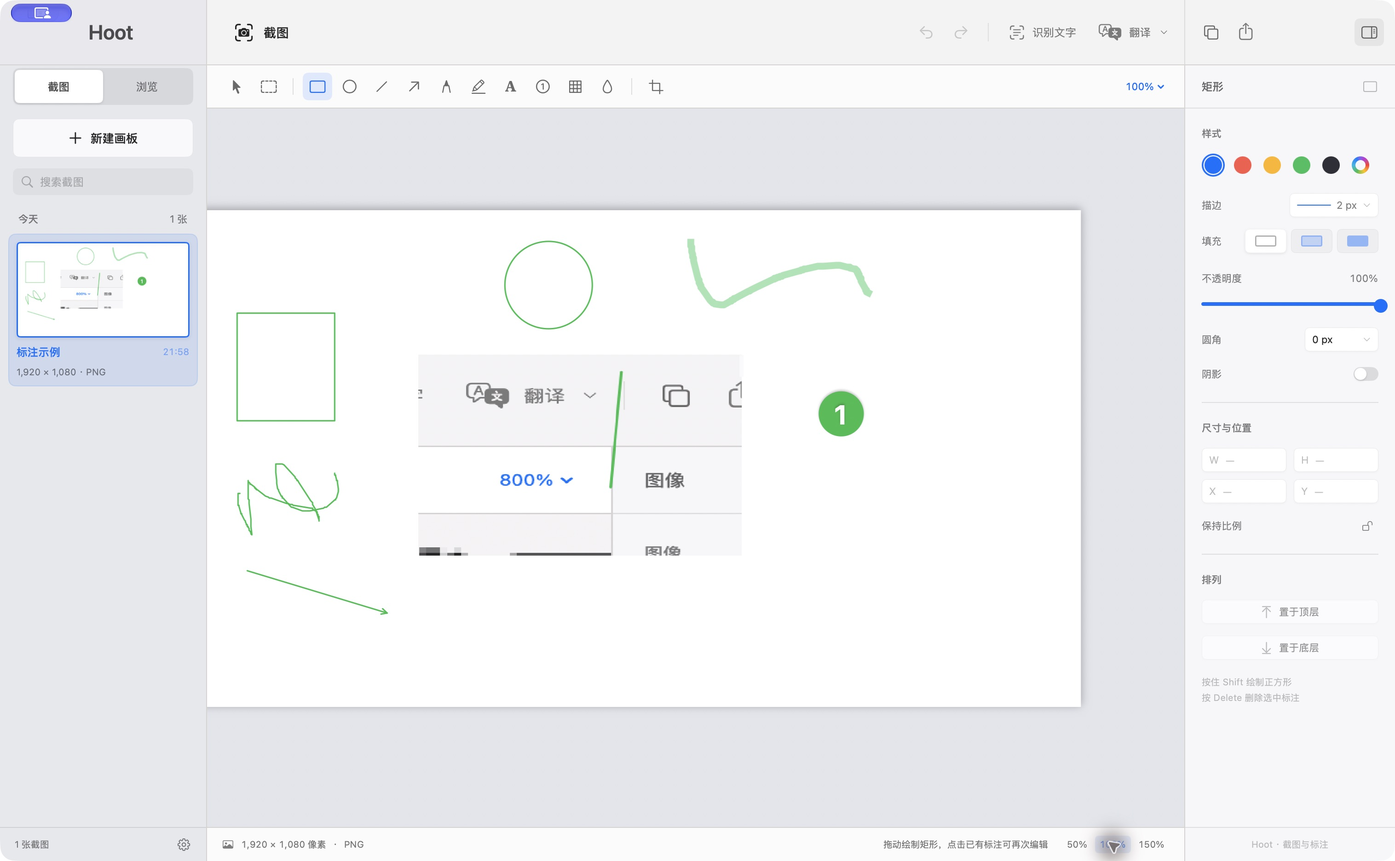
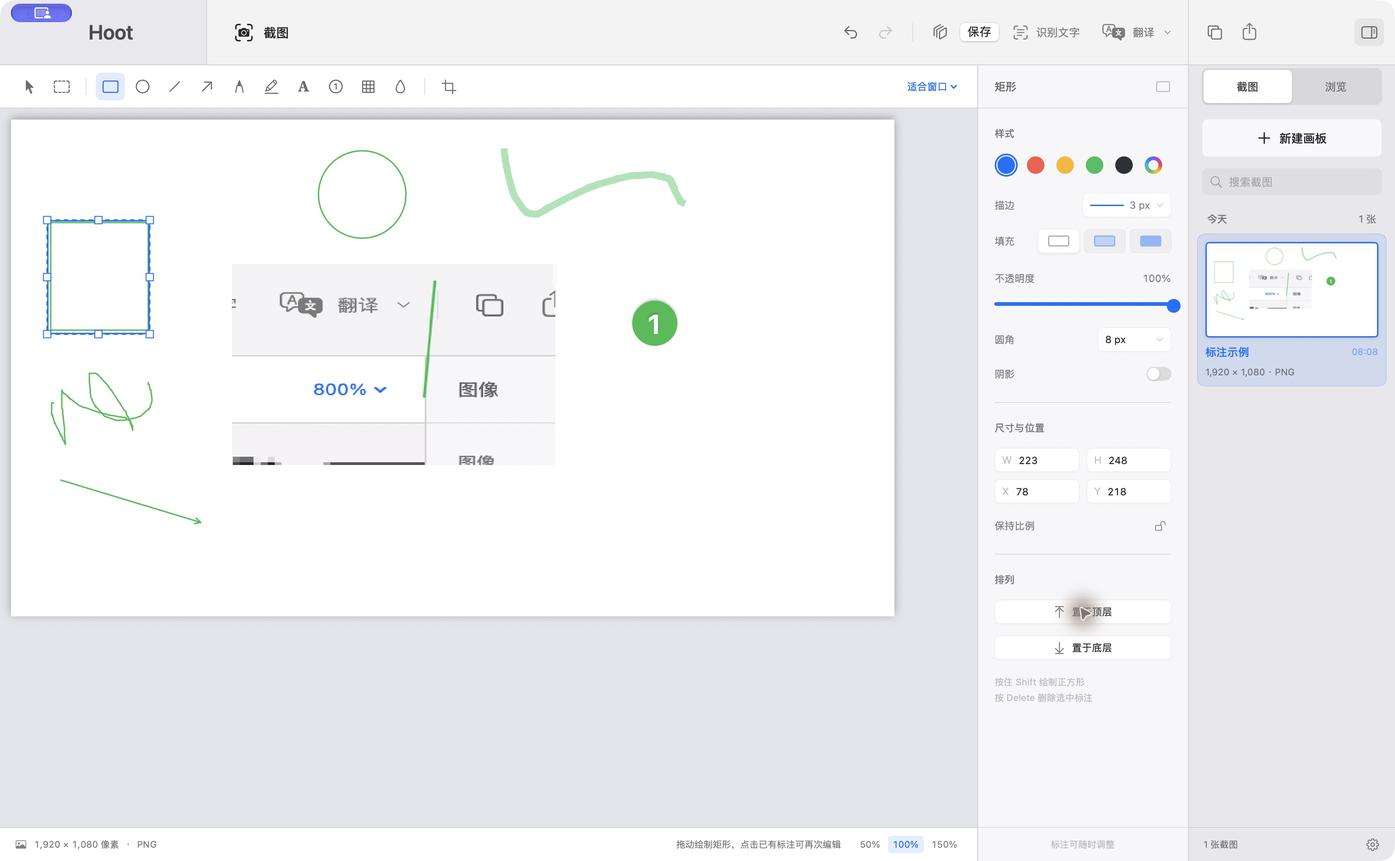
版本号收敛到单一来源 VERSION；清理三份过期验收稿
- 新增 VERSION（第 1 行 X.Y.Z，第 2 行 build），bundle.sh 与 landing/build.mjs
  都从它读取，不再手写版本号。漏改一处会让 UpdateManager 静默认为已是最新。
- landing/index.html 的版本位置改为 {{VERSION}} 占位符；build.mjs 增加校验：
  残留占位符、下载链接必须是 hoot-dl 域名下的当前版本包名，写错直接构建失败。
- 主截图改名为不带版本号的 landing/assets/hoot-editor.jpg。
- 删除 docs/UI-REDESIGN.md、EDITING-V2.md、CAPTURE-REFINEMENT.md：仍是当前
  事实的部分已并入 docs/FEATURES.md（§6.1 布局尺寸、§6.2 自绘标题栏、§6.4
  检查器、§6.5 状态栏、§9.1 侧栏、§10.2 翻页区、§11 设置三分类、§12 偏好键）。
  顺带修正「左侧栏 200pt」等与实现不符的描述（实际 224/228/36）。
- 部署.md 移出版本控制（内部文档，只留本机）。

diff --git a/landing/index.html b/landing/index.html
@@ -15,7 +15,7 @@
   <meta property="og:title" content="Hoot — 截图、看图、编辑，在 Mac 上一气呵成">
   <meta property="og:description" content="受 PicPick 启发，为 macOS 原生打造。免费使用，MIT 开源。">
   <meta property="og:url" content="https://hoot.xiezhaoye.site/">
-  <meta property="og:image" content="https://hoot.xiezhaoye.site/assets/hoot-editor-0.2.1.jpg">
+  <meta property="og:image" content="https://hoot.xiezhaoye.site/assets/hoot-editor.jpg">
   <meta name="twitter:card" content="summary_large_image">
   <link rel="stylesheet" href="style.css">
   <script src="site.js" defer></script>
@@ -33,10 +33,10 @@
     <p class="eyebrow"><span class="status-dot" aria-hidden="true"></span> 为 macOS 原生打造 <span class="dot-divider">·</span> 免费 · MIT 开源</p>
     <h1>截下来。<br><span><span class="hero-phrase">把想说的，</span><span class="hero-phrase">说明白。</span></span></h1>
     <p class="hero-description">截图、图片浏览与编辑，放在同一个顺手的 App 里。<br class="desktop-break">从圈出一个重点，到分享一张讲得清楚的图，Hoot 都陪你完成。</p>
-    <div class="hero-actions"><a class="button primary" href="https://hoot-dl.xiezhaoye.site/Hoot-0.2.1-macos-arm64.zip"><svg viewBox="0 0 24 24" aria-hidden="true"><path d="M12 3v12m-5-5 5 5 5-5M5 16v4h14v-4"></path></svg>下载 macOS 版</a><a class="button secondary" href="https://github.com/xiezhaoye/Hoot">在 GitHub 查看 <span aria-hidden="true">↗</span></a></div>
-    <p class="compatibility">v0.2.1 预览版 <span>·</span> macOS 15+ <span>·</span> Apple Silicon</p>
+    <div class="hero-actions"><a class="button primary" href="https://hoot-dl.xiezhaoye.site/Hoot-{{VERSION}}-macos-arm64.zip"><svg viewBox="0 0 24 24" aria-hidden="true"><path d="M12 3v12m-5-5 5 5 5-5M5 16v4h14v-4"></path></svg>下载 macOS 版</a><a class="button secondary" href="https://github.com/xiezhaoye/Hoot">在 GitHub 查看 <span aria-hidden="true">↗</span></a></div>
+    <p class="compatibility">v{{VERSION}} 预览版 <span>·</span> macOS 15+ <span>·</span> Apple Silicon</p>
     <figure class="hero-product">
-      <button class="screenshot-button" data-preview="assets/hoot-editor-0.2.1.jpg" data-caption="Hoot 原生编辑界面，画布中为用户提供的标注示例" aria-label="放大查看 Hoot 编辑界面"><img class="product-image" src="assets/hoot-editor-0.2.1.jpg" width="3032" height="1872" alt="Hoot 编辑界面：标注画布与工具栏，右侧颜色、描边、填充、圆角和尺寸检查器及截图历史" fetchpriority="high"></button>
+      <button class="screenshot-button" data-preview="assets/hoot-editor.jpg" data-caption="Hoot 原生编辑界面，画布中为用户提供的标注示例" aria-label="放大查看 Hoot 编辑界面"><img class="product-image" src="assets/hoot-editor.jpg" width="3032" height="1872" alt="Hoot 编辑界面：标注画布与工具栏，右侧颜色、描边、填充、圆角和尺寸检查器及截图历史" fetchpriority="high"></button>
       <figcaption>你熟悉的 Mac 界面。截图之后，直接开始编辑。<span>点击查看大图 <span aria-hidden="true">↗</span></span></figcaption>
     </figure>
     <div class="capability-strip"><span>Swift 原生界面</span><span>本地截图历史</span><span>Vision 本地识字</span><span>快捷键随手调用</span></div>
@@ -65,7 +65,7 @@
   </section>
   <section class="story-section" id="story" data-screen-label="开发初衷"><div class="wrap story-layout"><img src="assets/logo.png" width="112" height="112" alt="Hoot 猫头鹰 Logo" loading="lazy"><div><p class="eyebrow">为什么做 Hoot</p><blockquote>“想把 Windows 上用 PicPick<br class="desktop-break">截图和编辑的顺手体验，带到 Mac。”</blockquote><p>这是 Hoot 的起点。用 Swift 和 macOS 原生框架，从截图、看图和编辑这些每天都会做的小事开始，一点点打磨自己的答案。</p><p class="author"><a href="https://github.com/xiezhaoye">xiezhaoye <span aria-hidden="true">↗</span></a><span>Hoot 作者</span></p><p class="attribution">灵感来自 <a href="https://picpick.app/" rel="noopener">PicPick</a>。Hoot 是独立开发的应用，非 PicPick 官方 macOS 版本。</p></div></div></section>
   <section class="section wrap release-overview" id="updates" data-screen-label="当前版本与常用快捷键">
-    <div><p class="eyebrow">当前公开预览版 · 0.2.1</p><h2>版本与使用说明。</h2><ul class="release-points"><li>窗口与内部模块选区，支持辅助功能边界与本机矩形识别。</li><li>截图可设置透明圆角，准备过程支持多显示器并行抓取。</li><li>粘贴区块、图形和文字持续可编辑，统一固定并保存。</li><li>保存本地编辑草稿，重启后恢复画板和可编辑对象。</li></ul><a class="release-detail" href="https://github.com/xiezhaoye/Hoot/releases/tag/v0.2.1">查看 0.2.1 更新记录 ↗</a></div>
+    <div><p class="eyebrow">当前公开预览版 · {{VERSION}}</p><h2>版本与使用说明。</h2><ul class="release-points"><li>窗口与内部模块选区，支持辅助功能边界与本机矩形识别。</li><li>截图可设置透明圆角，准备过程支持多显示器并行抓取。</li><li>粘贴区块、图形和文字持续可编辑，统一固定并保存。</li><li>保存本地编辑草稿，重启后恢复画板和可编辑对象。</li></ul><a class="release-detail" href="https://github.com/xiezhaoye/Hoot/releases/tag/v{{VERSION}}">查看 {{VERSION}} 更新记录 ↗</a></div>
     <div class="shortcut-panel"><h3>常用快捷键</h3><dl><div><dt>开始截图</dt><dd><kbd>⌃⌥A</kbd></dd></div><div><dt>钉住剪贴板图片</dt><dd><kbd>⌃⌥P</kbd></dd></div><div><dt>固定全部对象</dt><dd><kbd>⇧⌘F</kbd></dd></div><div><dt>固定全部并保存</dt><dd><kbd>⌘S</kbd></dd></div><div><dt>撤销</dt><dd><kbd>⌘Z</kbd></dd></div><div><dt>重做</dt><dd><kbd>⇧⌘Z</kbd></dd></div></dl><p>以上为默认快捷键，截图快捷键可在设置中修改。保存前的区块和标注可继续调整，固定操作也支持撤销。</p></div>
   </section>
   <section class="section wrap faq-section" data-screen-label="常见问题"><div class="section-heading"><p class="eyebrow">开始之前</p><h2>你可能想知道。</h2></div><div class="faq">
@@ -78,7 +78,7 @@
     <details><summary>图片和识别的文字会上传吗？</summary><p>截图历史保存在本地，OCR 使用本机 Apple Vision。启用你自己配置的大模型翻译时，识别后的文字会发送到该接口；API Key 存在 macOS 钥匙串中。系统本地翻译不需要该接口。</p></details>
     <details><summary>支持长截图和录屏吗？</summary><p>当前版本专注截图、图片浏览与编辑，滚动长截图、录屏和视频剪辑尚未实现。你可以在 GitHub 提出需求或参与开发。</p></details>
   </div></section>
-  <section class="download-section" id="download" data-screen-label="下载 Hoot"><div class="wrap"><img src="assets/logo.png" width="76" height="76" alt="Hoot" loading="lazy"><h2>下一张截图，<br>试试 Hoot。</h2><p>给你的 Mac，添一只会截图的小猫头鹰。</p><div class="hero-actions"><a class="button primary" href="https://hoot-dl.xiezhaoye.site/Hoot-0.2.1-macos-arm64.zip">下载 Hoot 0.2.1 <span aria-hidden="true">↓</span></a><a class="button secondary" href="https://github.com/xiezhaoye/Hoot">GitHub 项目 <span aria-hidden="true">↗</span></a></div><p class="compatibility">macOS 15+ · Apple Silicon · 免费开源</p><a class="release-notes" href="https://github.com/xiezhaoye/Hoot/releases">查看版本与更新记录 <span aria-hidden="true">↗</span></a></div></section>
+  <section class="download-section" id="download" data-screen-label="下载 Hoot"><div class="wrap"><img src="assets/logo.png" width="76" height="76" alt="Hoot" loading="lazy"><h2>下一张截图，<br>试试 Hoot。</h2><p>给你的 Mac，添一只会截图的小猫头鹰。</p><div class="hero-actions"><a class="button primary" href="https://hoot-dl.xiezhaoye.site/Hoot-{{VERSION}}-macos-arm64.zip">下载 Hoot {{VERSION}} <span aria-hidden="true">↓</span></a><a class="button secondary" href="https://github.com/xiezhaoye/Hoot">GitHub 项目 <span aria-hidden="true">↗</span></a></div><p class="compatibility">macOS 15+ · Apple Silicon · 免费开源</p><a class="release-notes" href="https://github.com/xiezhaoye/Hoot/releases">查看版本与更新记录 <span aria-hidden="true">↗</span></a></div></section>
 </main>
 <footer class="wrap footer"><a class="brand" href="#"><img src="assets/logo.png" width="26" height="26" alt=""><span>Hoot</span></a><p>由 <a href="https://www.xiezhaoye.site/">xiezhaoye</a> 开发。</p><nav aria-label="页脚导航"><a href="https://github.com/xiezhaoye/Hoot">GitHub</a><a href="https://github.com/xiezhaoye/Hoot/issues">反馈问题</a><a href="https://github.com/xiezhaoye/Hoot/blob/main/LICENSE">MIT License</a></nav></footer>
 <dialog id="image-preview" aria-label="产品截图大图"><button class="preview-close" aria-label="关闭大图">关闭 <span aria-hidden="true">×</span></button><img alt=""><p></p></dialog>

diff --git a/docs/FEATURES.md b/docs/FEATURES.md
@@ -2,7 +2,7 @@
 
 > 给改界面的 AI / 开发者看的：这份文档描述 **当前版本（v0.2.1 持续编辑与智能截图版本）已经实现的全部功能**，包括看不见的行为、快捷键、数据存储和不能破坏的约定。改 UI 时请保持这些行为不变，除非用户明确要求改。
 >
-> 代码目录：`~/project/shotpad`。应用显示名叫 **Hoot**，但为了不丢数据，**bundle id（`com.xiezhaoye.shotpad`）、数据目录（`ShotPad/`）、钥匙串服务名（`ShotPad.LLM`）、SwiftPM 目标名（`ShotPad`）都没有改名**，不要改。
+> 代码目录：`~/project/hoot`。应用显示名叫 **Hoot**，但为了不丢数据，**bundle id（`com.xiezhaoye.shotpad`）、数据目录（`ShotPad/`）、钥匙串服务名（`ShotPad.LLM`）、SwiftPM 目标名（`ShotPad`）都没有改名**，不要改。
 
 ---
 
@@ -52,10 +52,11 @@ Resources/AppIcon.icns        应用图标
 构建 / 测试 / 打包：
 
 ```bash
-cd ~/project/shotpad
+cd ~/project/hoot
 swift build            # 调试构建
 swift test             # 核心回归测试（真实更新包校验可通过 HOOT_UPDATE_TEST_ARCHIVE 启用）
 ./scripts/bundle.sh    # 生成 ./Hoot.app（签名：Apple Development: xiezhaoye@gmail.com (N5Y4XA8R9F)）
+                       # 版本号取自仓库根目录 VERSION（第 1 行 X.Y.Z，第 2 行 build），不要手写
 ```
 
 **签名不要换成 ad-hoc**：稳定的签名身份才能让"屏幕录制"权限在重新打包后保留。
@@ -128,35 +129,63 @@ swift test             # 核心回归测试（真实更新包校验可通过 HOO
 ### 6.1 总体布局
 
 ```
-┌──────────────┬──────────────────────────────────────────────┐
-│ 左侧栏 200pt │  工具栏（第一行）                              │
-│ [截图|浏览]  │  选项栏（第二行：当前工具的设置 + 状态 + 缩放）│
-│              │  画布区（浏览标签时被“浏览预览”覆盖）            │
-└──────────────┴──────────────────────────────────────────────┘
+┌───────────────────┬───────────────────────────────────────────┬──────────────┐
+│ 侧栏 224pt         │  自定义标题栏 70pt（红黄绿 + Hoot + 截图 + │ 检查器 228pt │
+│ [截图|浏览]         │   撤销/重做/固定/保存/识别/翻译）           │（可收起）     │
+│                   ├───────────────────────────────────────────┤              │
+│ 新建画板 / 搜索框   │  标注栏 46pt（12 个工具 + 缩放百分比）      │ 颜色/描边/   │
+│ 历史缩略图（按天）  ├───────────────────────────────────────────┤ 填充/圆角/   │
+│                   │  画布（浏览标签时被“浏览预览”覆盖）          │ 阴影/尺寸    │
+│                   ├───────────────────────────────────────────┤              │
+│                   │  状态栏 36pt（尺寸/格式/缩放快捷键）        │              │
+└───────────────────┴───────────────────────────────────────────┴──────────────┘
 ```
 
-左/右侧位置由设置“历史栏位置”决定（默认左）。切到“浏览”标签时，画布只是隐藏，**选区、浮动块、撤销栈都保留**。
+尺寸是**当前实现值**，统一定义在 `EditorChrome.swift` 的 `EditorStyle`：`sidebarWidth = 224`、`inspectorWidth = 228`、`footerHeight = 36`；标题栏 70、标注栏 46 写在 `EditorView.swift`。改布局时改这些常量，不要在视图里散写数字。
 
-### 6.2 第一行：工具栏
+- **标题栏与下方栏的垂直分隔线必须上下对齐**：标题栏右组用「侧栏所在那一侧的宽度」（历史栏在右时 224，在左时 228），底栏统一 `footerHeight`。这是被反复修过的对齐问题。
+- 历史栏在**右侧**时使用 224pt，在**左侧**时右侧让给检查器 228pt。
+- `Hoot` 标题是 22 点半粗文字（不带 logo）；左上是原生红黄绿按钮占 88×70 的空间。
+- 窄窗口（宽度 < 1180）时「识别文字 / 翻译」只留图标不显示文字；标注栏用 `ViewThatFits` 把低频工具收进 `⋯` 菜单。
+- 左/右侧位置由设置“历史栏位置”决定（**默认右**）。切到“浏览”标签时，画布只是隐藏，**选区、浮动块、撤销栈都保留**。
 
-- 12 个工具：选区、矩形、圆圈、直线、箭头、画笔、荧光笔、马赛克、模糊、文字（图标是衬线体 “A”）、序号、裁剪。
+### 6.2 标题栏（70pt，自绘，不是 NSToolbar）
+
+左侧：原生红黄绿按钮（88×70 空间）+ `Hoot` 文字。右侧按标签页分成两组：
+
+- **「截图」标签**：
+  - 左内组：`截图` 按钮（camera.viewfinder 图标 + 文字，38pt 高）→ 与工具栏左侧圆形截图按钮、全局快捷键**完全等价**；中间是可拖窗的空白（`EditorWindowDragArea`）；窄于此处的动作按钮按优先级压缩。
+  - `撤销 ⌘Z` / `重做 ⇧⌘Z` → 分隔线 → `固定全部 ⇧⌘F` / `保存`（蓝底主按钮）→ `识别文字` / `翻译` + 方向下拉（自动方向 / 译成中文 / 译成英文）。
+- **「浏览」标签**：右侧换成 204×38 的蓝色 `编辑图片` 主按钮（把当前预览图送去编辑；无选中时禁用），另有 `复制图像`、系统分享、检查器开关。
+- 检查器开关贴在最右边缘，与左侧按钮之间用弹性间隔分开。
+
+**注意**：顶部**没有**「导出」主按钮（2026-10-25 移除）；保存靠 ⌘S 与标题栏的 `保存`。画布的 ⌘S 打开保存面板，取消即不固定。
+
+### 6.3 标注栏（46pt，第二行）
+
+- 12 个工具：手形（无工具）、选区、矩形、圆圈、直线、箭头、画笔、荧光笔、文字（图标是衬线体 “A”）、序号、马赛克、模糊、裁剪。
 - **选中态**：选中的按钮是蓝底白图标；**再点一次同一工具 = 取消选中**，回到“手形（无工具）”状态。
 - **无工具状态（`Tool.hand`，软件刚打开就是这个）**：鼠标是小手，拖动画面可平移。此时浮动块仍可拖动/缩放。
-- 中间：圆形蓝色“截图”按钮（在工具区和右侧按钮之间的空白正中）。
-- 标题栏提供 **固定全部（⇧⌘F）** 和 **保存（⌘S）**。选中区块时显示“删除区块”；Esc 只取消选中。
-- 撤销 / 重做按钮、**识别文字**、**翻译**、翻译方向选择（自动方向 / 译成中文 / 译成英文）。
+- 窗口宽度不足时 `ViewThatFits` 把 `直线 / 荧光笔 / 序号 / 模糊` 收进 `⋯` 菜单（不是直接隐藏）。
+- 最右：缩放百分比文字菜单（`适合窗口` + 25/50/100/150/200/400/800%）。
 
-### 6.3 第二行：选项栏（随工具变化）
+### 6.4 检查器（228pt，右侧，可收起）
 
-- 矩形/圆/直线/箭头/画笔/荧光笔/序号：颜色（取色块 + **吸管** + **最近使用的 10 个颜色圆点**）+ 线宽滑块。
-- 马赛克/模糊：强度滑块。
-- 文字：颜色（同上）+ **常用字号下拉**（12、14、16、18、20、24、28、32、36、48、64、72、96）+ 字号步进器。
-- 选区/裁剪：选区框颜色。
-- 无工具：提示“拖动画面可平移，捏合可缩放”。
-- 右侧：状态文字、**缩放快捷 50% / 100% / 150%**（当前档高亮）、缩放百分比菜单（25–800%、适应窗口）。
-- **改颜色/线宽/字号会同时作用到当前选中的标注**。
+标题栏的 `sidebar.right` 图标控制显隐。按选中对象类型分节显示：
 
-### 6.4 画布交互（CanvasView）
+- **颜色**：常用色常驻 + 最近使用的 10 色圆点 + 完整取色器 + 吸管。
+- **描边**：线宽（用一条 Capsule 预览实际粗细）。
+- **填充**：三种（无填充 / 半透明 / 实心）。
+- **不透明度**、**圆角**（含 0/4/8/12/16/24/32/48 预设）、**阴影**开关。
+- **尺寸与位置**：W/H/X/Y 输入框 + 比例锁 + 排列（置顶 / 置底）。
+- 无选中对象时只显示默认样式（供下一次绘制使用）。
+- **改颜色/线宽/字号/填充/不透明度/圆角/阴影会同时作用到当前选中的标注**，且不取消选中、不固定对象。
+
+### 6.5 状态栏（36pt，底栏）
+
+左侧：图像尺寸 `宽 × 高 像素` + 当前文件格式；右侧：当前工具提示或「区块可持续编辑 / 删除区块」，再右是 **50% / 100% / 150%** 快捷缩放（当前档高亮）。底栏横线与侧栏、检查器的底部分隔线**必须齐平**（统一 `footerHeight = 36`）。
+
+### 6.6 画布交互（CanvasView）
 
 **平移与缩放**
 - 无工具时拖动平移；两指滑动是系统滚动。
@@ -228,10 +257,13 @@ swift test             # 核心回归测试（真实更新包校验可通过 HOO
 - 历史栏缩略图缓存在内存里，条目变化时失效。
 - 历史**不再分类**（以前有“正常/提取文字/翻译”三类，已合并成“截图”；旧记录里的 `group` 字段仍会被解码但不再使用）。
 
-### 9.1 左侧“截图”标签
+### 9.1 侧栏“截图”标签
 
-- 最上面一个大的“新建”按钮（宽度同缩略图，高约 84pt）：创建一块**空白白色画板**（尺寸取设置值），生成文件并打开。
-- 下面是缩略图列表（最新在前），点击打开；右键“删除”。当前打开的高亮。
+- 顶部是**分段控件** `[截图 | 浏览]`（36pt 高、圆角、选中项带轻投影），不是两个独立按钮。
+- 接着是 `新建画板` 大按钮（42pt 高、通栏白底灰边）：创建一块**空白白色画板**（尺寸取设置值），生成文件并打开。**这里没有截图按钮**——截图在标题栏。
+- 然后是搜索框（29pt 高，可按名称 / 短名 / 日期 / 尺寸模糊匹配）。
+- 再下面是**按天分组**的缩略图列表（今天 / 昨天 / 月日），每组标题右侧显示张数；条目是最新在前，点击打开；右键“删除”。当前打开的高亮（蓝边 + 浅蓝底 + 显示尺寸与格式）。
+- 侧栏底部：左侧 `N 张截图`（浏览标签时显示 `N 个分组`），右侧齿轮进设置。
 
 ## 10. “浏览”标签
 
@@ -246,7 +278,8 @@ swift test             # 核心回归测试（真实更新包校验可通过 HOO
 ### 10.2 右侧预览
 
 - 支持格式：png、jpg、jpeg、heic、heif、gif（只显示首帧）、webp、tif、tiff、bmp。排序：按文件名，自然排序（b2 在 b10 前）。
-- 底色 **白色**。底部显示文件名和 `第几张 / 共几张`，以及“编辑”按钮。
+- 底色 **白色**。底栏（36pt，与其他底栏齐平）显示 `第几张 / 共几张`。**「编辑图片」按钮在窗口右上角（标题栏里），不在预览底栏**。
+- **翻页区**：大图**左右各半个区域**都是翻页点击区（不是只在箭头附近点），中间是图片本身；箭头的视觉尺寸保持较小（42×54 胶囊，距边 18）。到头的方向箭头透明度降到 0.25 且点击无效（`page(delta)` 不循环）。双击翻页区 = 送去编辑。
 - 图片加载：ImageIO 缩略图 API，**应用 EXIF 方向**，大图降采样到 3200 像素；带 400 项的内存缓存。
 - **键盘（只在浏览标签、有选中文件夹时生效）**：
 
@@ -265,15 +298,31 @@ swift test             # 核心回归测试（真实更新包校验可通过 HOO
 
 ## 11. 设置窗口（Hoot 设置）
 
-- **截图**：截图快捷键（录制）、保存格式、截图后自动复制到剪贴板、编辑画板大小（宽×高像素 + 预设：1920×1080、2560×1440、3840×2160、2480×3508(A4@300dpi)）。
-- **存储与格式**：截图保存目录（显示路径、更改…、在 Finder 中显示）。
-- **界面**：始终在 Dock 显示、历史栏位置（左/右）、标注颜色、选区/裁剪框颜色。
-- **大模型翻译**：Base URL、API Key（钥匙串）、模型名、测试连接。
-- 打开设置窗口时会临时切到 `.regular`，关闭时重新评估激活策略。
+左侧菜单 158pt（**通用 / 识字与翻译 / 关于与更新** 三类，均 22pt 图标容器 + 42pt 行高 + 18pt 最大图形，选中项浅蓝底、`focusEffectDisabled`），右侧 `Form` 独立滚动。每次打开都按**当前画板窗口**所在屏幕居中并限制在可见区域内；没有画板时按鼠标所在显示器居中。
+
+**通用**
+
+- 截图：截图快捷键（录制器）、保存格式。
+- 截图：`截图后自动复制到剪贴板`、`智能识别窗口内部模块`（附带「授权辅助功能…」按钮）、`截图圆角` + 像素半径（0–200 步进 2，预设 0/4/8/12/16/24/32/48）。
+- 画板：编辑画板宽 × 高（像素 + 预设 1920×1080、2560×1440、3840×2160、2480×3508 A4@300dpi）。
+- 存储：截图保存目录（显示路径 / 更改… / 在 Finder 中显示）；**更改后要重启才生效**，更改时会把现有文件复制过去。
+- 界面：`始终在 Dock 显示`、`历史栏位置`（左 / 右，默认右）、标注颜色、选区 / 裁剪框颜色。
+
+**识字与翻译**
+
+- Base URL、API Key（存钥匙串）、模型名、`测试连接`（翻译 "Hello"）。三项都填才启用大模型，否则回退系统本地翻译。
+
+**关于与更新**
+
+- 版本与构建号、GitHub / 官网链接、`自动检查更新` 开关、`检查更新` 按钮、发现新版时的 `安装并重启`。
+
+打开设置窗口时会临时切到 `.regular`，关闭时重新评估激活策略。
 
 ## 12. 偏好键一览（UserDefaults，除特别说明）
 
-`alwaysInDock`（默认 true）、`historySide`（left/right）、`annotationColor`、`selectionColor`、`recentColors`（数组，最多 10 个 [r,g,b,a]）、`copyAfterCapture`、`captureKeyCode`（默认 0 = A）、`captureModifiers`（Carbon 掩码，⌘256 ⇧512 ⌥2048 ⌃4096，默认 4096|2048）、`captureKeyLabel`、`imageFormat`、`boardWidth` / `boardHeight`（默认 1920 / 1080）、`historyLimit`（默认 50）、`historyDirectory`（缺省用默认目录）、`llmBaseURL`；LLM 的 Key 与模型名在钥匙串 `ShotPad.LLM`。
+`alwaysInDock`（默认 true）、`historySide`（left/right，**默认 right**）、`annotationColor`、`selectionColor`、`recentColors`（数组，最多 10 个 [r,g,b,a]）、`copyAfterCapture`（默认 false）、`smartCapture`（默认 true）、`roundedCapture`（默认 false）、`captureRadius`（默认 12）、`captureKeyCode`（默认 0 = A）、`captureModifiers`（Carbon 掩码，⌘256 ⇧512 ⌥2048 ⌃4096，默认 4096|2048）、`captureKeyLabel`、`imageFormat`（默认 png）、`boardWidth` / `boardHeight`（默认 1920 / 1080）、`historyLimit`（默认 50）、`historyDirectory`（缺省用默认目录）、`llmBaseURL`、`llmModel`、`numberDiameter`（上一个序号直径）、`automaticallyCheckUpdates`（默认 true）、`lastUpdateCheck`。
+
+LLM 的 API Key 在钥匙串服务 **`ShotPad.LLM`**（account `apiKey`）。LLM 的**模型名在 `UserDefaults` 的 `llmModel`**（不在钥匙串里——早期文档写错过）。
 
 ## 13. 已知注意事项 / 坑
 
@@ -286,6 +335,9 @@ swift test             # 核心回归测试（真实更新包校验可通过 HOO
 - 内存：空闲约 100–300MB；缩略图和图片都有缓存上限。
 - **没有做过自动化 UI 冒烟测试**：所有交互行为目前只靠编译 + ShotPadCore 单元测试 + 用户手工测试。改 UI 时请格外小心键盘、光标、手势这类看不见的逻辑。
 - 旧的 `ShotPad.app` 可能还留在项目目录里（旧名字），可以手动删除；现在的产物是 `Hoot.app`。
+- **版本号只在仓库根目录 `VERSION` 里写**（第 1 行 `X.Y.Z`，第 2 行 build 号）。`scripts/bundle.sh` 与 `landing/build.mjs` 都从它读取；落地页 `index.html` 只写 `{{VERSION}}` 占位符。漏改会让 `UpdateManager` 认为「已是最新」，自动更新**静默失效**。
+- **自绘标题栏不是 `NSToolbar`**：第一版用默认 `NSToolbar` 高度和控件边框就偏离设计稿，第二版改成 70pt 自定义头部 + 原生红黄绿 + 标题栏 accessory 留位。别再退回 `NSToolbar`。
+- **`EditorStyle` 之外不要散写尺寸**：侧栏 224 / 检查器 228 / 底栏 36 是常量；标题栏与下方栏的垂直分隔线依赖它们对齐。
 
 ## 14. 计划中（尚未实现）
 

diff --git a/landing/README.md b/landing/README.md
@@ -27,11 +27,11 @@ Worker 名称 `hoot-site`，域名 `hoot.xiezhaoye.site`。不修改 XMark 的 W
 
 - `index.html` / `style.css` / `site.js`：落地页，无运行时依赖与追踪脚本。
 - `assets/logo.png`：从项目原有 AppIcon.icns 导出。
-- `assets/hoot-editor-0.2.1.jpg`：使用用户提供的标注图片，在隔离历史目录中运行 Hoot 0.2.1 所得实际界面截图，显示持续编辑和保存入口。
+- `assets/hoot-editor.jpg`：使用用户提供的标注图片，在隔离历史目录中运行 Hoot 所得实际界面截图，显示持续编辑和保存入口。
 - `assets/annotation-example.png`：用户指定的产品介绍图。
 - `wrangler.jsonc`：部署配置。
 
-发布新版时更新页面中的版本号、下载 URL 和更新记录，并发布对应 GitHub Release。`dist/` 是生成目录，不入 Git。
+发布新版只需改仓库根目录的 `VERSION` 和 `CHANGELOG.md`：`index.html` 里的版本号、下载 URL、Release 链接全部是 `{{VERSION}}` 占位符，由 `build.mjs` 填入；构建会校验下载链接必须是 `hoot-dl` 域名下的当前版本包，写错直接失败。`dist/` 是生成目录，不入 Git。
 
 凭据留在系统授权存储中，不复制进仓库。CI 如需自动部署，应单独配置项目最小权限 API Token，不复用本机 OAuth。
 

diff --git a/README.md b/README.md
@@ -50,13 +50,15 @@ open Hoot.app
 
 上面的命令使用临时签名。开发时可用 `SHOTPAD_IDENTITY` 指定自己的稳定签名证书，以保持重建后的系统录屏授权。构建脚本默认使用作者本机的开发证书。
 
+版本号唯一来源是仓库根目录的 [`VERSION`](VERSION)（第 1 行营销版本 `X.Y.Z`，第 2 行 build 号）；构建脚本与落地页都从它读取，不要手写版本号。
+
 ## 工程结构
 
 - `Sources/ShotPad`：AppKit / SwiftUI 界面、截图遮罩、画布、浏览和贴图。
 - `Sources/ShotPadCore`：标注、渲染、浮动块、撤销、历史、OCR 与翻译逻辑。
 - `Tests/ShotPadCoreTests`：核心逻辑回归测试。
 - `docs/FEATURES.md`：完整功能与交互约定。
-- `landing/`：产品落地页及 Cloudflare Workers 部署配置。
+- `landing/`：产品落地页及 Cloudflare Workers 部署配置（`index.html` 里只写 `{{VERSION}}` 占位符，构建时从 `VERSION` 填入）。
 
 应用显示名是 **Hoot**。为兼容早期版本，SwiftPM 目标 `ShotPad`、bundle ID `com.xiezhaoye.shotpad`、数据目录 `~/Library/Application Support/ShotPad/` 和钥匙串服务名 `ShotPad.LLM` 保持不变。
 
